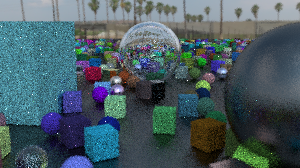
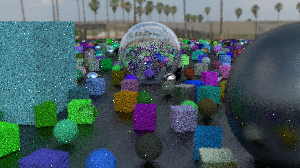
Z-Fighting\epsilon

diff --git a/material.hpp b/material.hpp
@@ -32,7 +32,10 @@ public:
 		if (scatter_direction.near_zero()) {
 			scatter_direction = rec.normal;
 		}
-		scattered = ray(rec.p, scatter_direction);
+		//adjust hit point by a small epsilon to avoid self-intersection
+		point3 origin_adjusted = rec.p + rec.normal * ray_epsilon;
+
+		scattered = ray(origin_adjusted, scatter_direction, r_in.time());
 		attenuation = albedo;
 		return true;
 	}
@@ -52,7 +55,10 @@ public:
 	bool scatter(const ray& r_in, const hit_record& rec, color& attenuation, ray& scattered) const override {
 		vec3 reflected = reflect(r_in.direction(), rec.normal);
 		reflected = unit_vector(reflected) + (fuzz * random_unit_vector());
-		scattered = ray(rec.p, reflected);
+
+		point3 origin_adjusted = rec.p + ray_epsilon * rec.normal;
+
+		scattered = ray(rec.p, reflected, r_in.time());
 		attenuation = albedo;
 		return (dot(scattered.direction(), rec.normal) > 0);
 	}
@@ -86,7 +92,9 @@ public:
 			direction = refract(unit_direction, rec.normal, ri);
 		}
 
-		scattered = ray(rec.p, direction); //creates new scattered ray with beginning = rec.p and refract direction = refracted 
+		point3 origin_adjusted = rec.p + ray_epsilon * rec.normal;
+
+		scattered = ray(rec.p, direction, r_in.time()); //creates new scattered ray with beginning = rec.p and refract direction = refracted 
 		return true;
 	}
 private:

diff --git a/ray.hpp b/ray.hpp
@@ -6,20 +6,36 @@ class ray {
 public:
 	point3 orig;
 	vec3 dir;
+	double tm;
 
 	//default constructor
 	ray() {}
 
-	//parametric constructor, creates the object with initial values
+	//2 args 
 	ray(const point3& origin, const vec3& direction)
+		: orig(origin), dir(direction), tm(0.0) // tm set to 0.0
+	{}
+
+	// 3 args parametric constructor, creates the object with initial values
+	ray(const point3& origin, const vec3& direction, double time)
 		: orig(origin)
-		, dir(direction) 
+		, dir(direction)
+		, tm(time)
 	{}
 
 	//getters
-	const point3& origin() const { return orig; }
-	const vec3& direction() const { return dir; }
+	const point3& origin() const {
+		return orig;
+	}
+	const vec3& direction() const {
+		return dir;
+	}
+	double time() const {
+		return tm;
+	}
 
 	//return the point at radius for parameter t
-	point3 at(double t) const { return orig + t * dir; }
+	point3 at(double t) const {
+		return orig + t * dir;
+	}
 };

diff --git a/rtweekend.hpp b/rtweekend.hpp
@@ -13,6 +13,7 @@ using std::shared_ptr;
 //constants
 constexpr double infinity = std::numeric_limits<double>::infinity();
 constexpr double pi = 3.14159265358979323846;
+const double ray_epsilon = 0.0001;
 
 //utility functions
 
